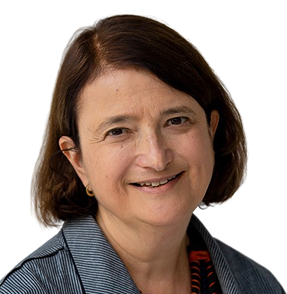
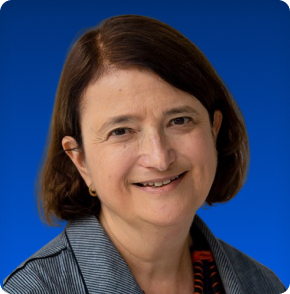
Fixes in partners, speakers, footer

diff --git a/src/Components/Partners.js b/src/Components/Partners.js
@@ -38,8 +38,10 @@ const Partners = () => {
     const LogoGridPlain = ({ logos, cols, centerLastOnMobile = false }) => (
         <div
             className={`
-      grid ${cols}
-      gap-y-12 gap-x-16
+      grid ${cols} justify-items-center
+
+      gap-y-10 gap-x-6 sm:gap-x-10
+
       place-items-center
     `}
         >
@@ -52,10 +54,12 @@ const Partners = () => {
                         src={logo}
                         alt="partner logo"
                         className={`
-            w-[160px] h-[80px]
-    sm:w-[180px] sm:h-[80px]
-    md:w-[260px] md:h-[120px]
-    lg:w-[220px] lg:h-[220px] logo-shadow
+         w-[140px] h-[70px]
+sm:w-[160px] sm:h-[80px]
+md:w-[260px] md:h-[120px]
+lg:w-[180px] lg:h-[180px]
+object-contain
+ logo-shadow
             ${isLast ? "col-span-2 sm:col-span-1 justify-self-center" : ""}
           `}
                     />
@@ -223,25 +227,15 @@ const Partners = () => {
                     {/* DESKTOP */}
                     <div className="hidden md:grid grid-cols-10 gap-x-16 gap-y-16 place-items-center">
 
-                        <img src={tHub} className="col-span-2 col-start-1 object-contain  w-[220px] h-[120px]
-    lg:w-[220px] lg:h-[180px] logo-shadow" />
-                        <img src={tie} className="col-span-2 col-start-3 object-contain  w-[220px] h-[120px]
-    lg:w-[220px] lg:h-[180px]  logo-shadow" />
-                        <img src={ce} className="col-span-2 col-start-5 object-contain  w-[220px] h-[120px]
-    lg:w-[220px] lg:h-[180px]  logo-shadow" />
-                        <img src={tgic} className="col-span-2 col-start-7 object-contain  w-[220px] h-[120px]
-    lg:w-[220px] lg:h-[180px]  logo-shadow" />
-                        <img src={t10x} className="col-span-2 col-start-9 object-contain  w-[220px] h-[120px]
-    lg:w-[220px] lg:h-[180px]  logo-shadow" />
-
-                        <img src={math} className="col-span-2 col-start-2 object-contain  w-[220px] h-[120px]
-    lg:w-[220px] lg:h-[180px] logo-shadow" />
-                        <img src={haa} className="col-span-2 col-start-4 object-contain  w-[220px] h-[120px]
-    lg:w-[220px] lg:h-[180px]  logo-shadow" />
-                        <img src={succeed} className="col-span-2 col-start-6 object-contain  w-[220px] h-[120px]
-    lg:w-[220px] lg:h-[180px]  logo-shadow" />
-                        <img src={silverneedle} className="col-span-2 col-start-8 object-contain  w-[220px] h-[120px]
-    lg:w-[220px] lg:h-[180px] logo-shadow" />
+                        <img src={tHub} className="col-span-2 col-start-1 w-[140px] h-[70px] sm:w-[160px] sm:h-[80px] md:w-[260px] md:h-[120px]lg:w-[180px] lg:h-[180px] object-contain logo-shadow" />
+                        <img src={tie} className="col-span-2 col-start-3 w-[140px] h-[70px] sm:w-[160px] sm:h-[80px] md:w-[260px] md:h-[120px]lg:w-[180px] lg:h-[180px] object-contain logo-shadow" />
+                        <img src={ce} className="col-span-2 col-start-5 w-[140px] h-[70px] sm:w-[160px] sm:h-[80px] md:w-[260px] md:h-[120px]lg:w-[180px] lg:h-[180px] object-contain logo-shadow" />
+                        <img src={tgic} className="col-span-2 col-start-7 w-[140px] h-[70px] sm:w-[160px] sm:h-[80px] md:w-[260px] md:h-[120px]lg:w-[180px] lg:h-[180px] object-contain logo-shadow" />
+                        <img src={t10x} className="col-span-2 col-start-9 w-[140px] h-[70px] sm:w-[160px] sm:h-[80px] md:w-[260px] md:h-[120px]lg:w-[180px] lg:h-[180px] object-contain logo-shadow" />
+                        <img src={math} className="col-span-2 col-start-2 w-[140px] h-[70px] sm:w-[160px] sm:h-[80px] md:w-[260px] md:h-[120px]lg:w-[180px] lg:h-[180px] object-contain logo-shadow" />
+                        <img src={haa} className="col-span-2 col-start-4 w-[140px] h-[70px] sm:w-[160px] sm:h-[80px] md:w-[260px] md:h-[120px]lg:w-[180px] lg:h-[180px] object-contain logo-shadow" />
+                        <img src={succeed} className="col-span-2 col-start-6 w-[140px] h-[70px] sm:w-[160px] sm:h-[80px] md:w-[260px] md:h-[120px]lg:w-[180px] lg:h-[180px] object-contain logo-shadow" />
+                        <img src={silverneedle} className="col-span-2 col-start-8 w-[140px] h-[70px] sm:w-[160px] sm:h-[80px] md:w-[260px] md:h-[120px]lg:w-[180px] lg:h-[180px] object-contain logo-shadow" />
 
                     </div>
 

diff --git a/src/Components/Speakers.js b/src/Components/Speakers.js
@@ -232,14 +232,14 @@ export default function Speakers() {
           CHIEF GUESTS & DIGNITARIES OVER THE YEARS
         </h2>
 
-        <div className="grid justify-center gap-x-6 gap-y-10 grid-cols-1 sm:grid-cols-2 md:grid-cols-3 lg:grid-cols-[repeat(5,auto)]">
+        <div className="grid place-items-center justify-center gap-x-6 gap-y-10 grid-cols-2 sm:grid-cols-2 md:grid-cols-3 lg:grid-cols-[repeat(5,auto)]">
           {chief_guests.map((guest, idx) => (
             <div key={idx} className="flex flex-col items-center">
-              <div className="w-44 h-44 sm:w-48 sm:h-48 md:w-52 md:h-52 bg-gradient-to-b from-blue-600 to-blue-800 rounded-md overflow-hidden ">
+              <div className="w-44 h-44 sm:w-48 sm:h-48 md:w-52 md:h-52  rounded-md p-6">
                 <img
                   src={guest.img}
                   alt={guest.name}
-                  className="w-full h-full object-cover"
+                  className="w-full h-full object-cover rounded-sm"
                   loading="lazy"
                 />
               </div>
@@ -255,14 +255,14 @@ export default function Speakers() {
             MARQUEE SPEAKERS FROM PAST EDITIONS
           </h2>
 
-          <div className="grid justify-center gap-x-6 gap-y-10 grid-cols-1 sm:grid-cols-2 md:grid-cols-3 lg:grid-cols-[repeat(5,auto)]">
+          <div className="grid place-items-center justify-center gap-x-6 gap-y-10 grid-cols-2 sm:grid-cols-2 md:grid-cols-3 lg:grid-cols-[repeat(5,auto)]">
             {speakers.map((spk, idx) => (
               <div key={idx} className="flex flex-col items-center">
-                <div className="w-44 h-44 sm:w-48 sm:h-48 md:w-52 md:h-52 bg-gradient-to-b from-blue-600 to-blue-800 rounded-md overflow-hidden ">
+                <div className="w-44 h-44 sm:w-48 sm:h-48 md:w-52 md:h-52  rounded-md p-6">
                   <img
                     src={spk.img}
                     alt={spk.name}
-                    className="w-full h-full object-cover"
+                    className="w-full h-full object-cover v"
                     loading="lazy"
                   />
                 </div>

diff --git a/src/Components/Navbar.js b/src/Components/Navbar.js
@@ -16,13 +16,14 @@ const Navbar = () => {
             </Link>
           </div>
 
-          <div className="hidden md:flex items-center gap-6">
+          <div className="hidden lg:flex items-center gap-6">
             <nav className="flex items-center gap-6 text-white text-sm md:text-base">
               <Link to="/" className="hover:underline">Overview</Link>
               <Link to="/exhibition" className="hover:underline">Exhibition</Link>
               <Link to="/speakers" className="hover:underline">Speakers</Link>
               <Link to="/awards" className="hover:underline">Awards</Link>
               <Link to="/partners" className="hover:underline">Partners</Link>
+              <Link to="/sessions" className="hover:underline">Sessions</Link>
             </nav>
 
             <a
@@ -35,7 +36,7 @@ const Navbar = () => {
           </div>
 
           <button
-            className="md:hidden inline-flex items-center justify-center p-2 rounded-md text-white"
+            className="lg:hidden inline-flex items-center justify-center p-2 rounded-md text-white"
             onClick={() => setOpen((s) => !s)}
             aria-expanded={open}
             aria-label="Toggle navigation menu"
@@ -57,7 +58,7 @@ const Navbar = () => {
         </div>
 
         {open && (
-          <div className="md:hidden bg-[#14328D] w-full px-4 pb-4">
+          <div className="lg:hidden bg-[#14328D] w-full px-4 pb-4">
             <nav className="flex flex-col gap-3 text-white text-base">
               <Link to="/" onClick={() => setOpen(false)} className="py-2 hover:underline">
                 Overview
@@ -73,6 +74,9 @@ const Navbar = () => {
               </Link>
               <Link to="/partners" onClick={() => setOpen(false)} className="py-2 hover:underline">
                 Partners
+              </Link>
+              <Link to="/sessions" onClick={() => setOpen(false)} className="py-2 hover:underline">
+                Sessions
               </Link>
 
               <div className="pt-2">

diff --git a/src/Components/Footer.js b/src/Components/Footer.js
@@ -20,16 +20,16 @@ const Footer = () => {
             alt="HYSEA"
             className="h-10 object-contain"
           />
-          <div className="flex flex-col items-end gap-1">
+          <div className="flex flex-col items-end gap-2">
 
             <div className="flex items-center gap-3">
-              <a href="#" target="_blank" rel="noopener noreferrer">
+              <a href="https://www.facebook.com/Official.HYSEA/" target="_blank" rel="noopener noreferrer">
                 <img src={iconFacebook} className="w-6 h-6" alt="fb" />
               </a>
-              <a href="#" target="_blank" rel="noopener noreferrer">
+              <a href="https://www.instagram.com/official.hysea/" target="_blank" rel="noopener noreferrer">
                 <img src={iconInstagram} className="w-6 h-6" alt="ig" />
               </a>
-              <a href="#" target="_blank" rel="noopener noreferrer">
+              <a href="https://www.linkedin.com/company/hysea/posts/?feedView=all" target="_blank" rel="noopener noreferrer">
                 <img src={iconLinkedIn} className="w-6 h-6" alt="li" />
               </a>
             </div>
@@ -51,7 +51,7 @@ const Footer = () => {
               <a href="https://www.facebook.com/Official.HYSEA/" target="_blank" rel="noopener noreferrer">
                 <img src={iconFacebook} className="w-6 h-6" alt="fb" />
               </a>
-              <a href="https://www.instagram.com/official.hysea/?hl=en" target="_blank" rel="noopener noreferrer">
+              <a href="https://www.instagram.com/official.hysea/" target="_blank" rel="noopener noreferrer">
                 <img src={iconInstagram} className="w-6 h-6" alt="ig" />
               </a>
               <a href="https://www.linkedin.com/company/hysea/posts/?feedView=all" target="_blank" rel="noopener noreferrer">

diff --git a/src/App.js b/src/App.js
@@ -7,6 +7,7 @@ import Expo from './Components/Expo.js';
 import Speakers from "./Components/Speakers.js";
 import Awards from "./Components/Awards.js";
 import Partners from "./Components/Partners.js";
+import Sessions from "./Components/Sessions.js";
 import ScrollToTop from "./Components/ScrollToTop.js";
 function App() {
   return (
@@ -23,6 +24,7 @@ function App() {
           <Route path="/speakers" element={<Speakers />} />
           <Route path="/awards" element={<Awards />} />
           <Route path="/partners" element={<Partners />} />
+          <Route path="/sessions" element={<Sessions />} />
         </Routes>
       </main>
     </BrowserRouter>

diff --git a/src/Components/Sessions.js b/src/Components/Sessions.js
@@ -1,0 +1,19 @@
+import Navbar from "./Navbar";
+import Footer from "./Footer";
+
+const Sessions = () => {
+    return (
+        <div className="w-full">
+            <Navbar />
+
+            {/* Push content below fixed navbar */}
+            <main className="pt-16 md:pt-20 h-[620px]">
+                <h1 className="text-2xl font-semibold text-center">In Progress</h1>
+            </main>
+
+            <Footer />
+        </div>
+    );
+};
+
+export default Sessions;
